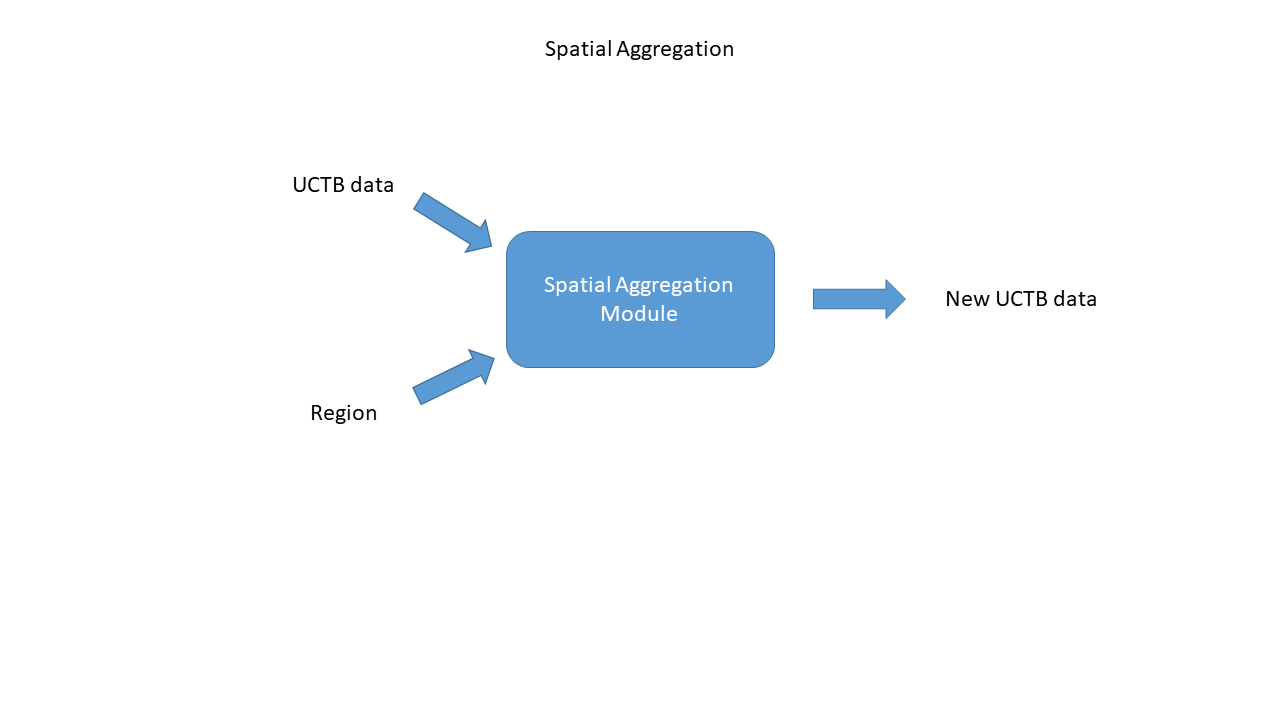
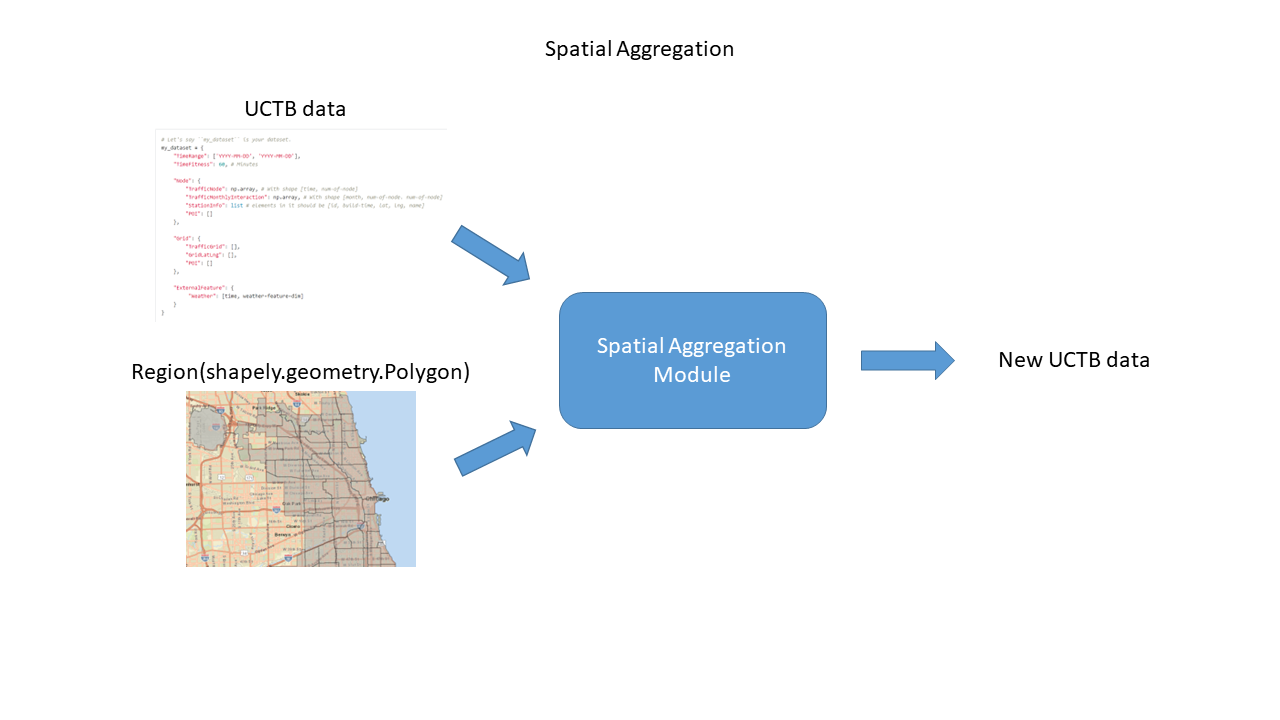
fixed README.md

diff --git a/README.md b/README.md
@@ -2,9 +2,22 @@
 A region generation framework for spatio-temporal prediction task
 ## Current Development Plan
 We are now developing for spatial aggregation module.
-[UCTB data description](https://uctb.github.io/UCTB/md_file/urban_dataset.html)
+Following two pictures are the discription of the input output and the function of the module.
 ![](figure/RegionGeneration.png)
 ![](figure/example.png)
-[UCTB data](https://github.com/uctb/Urban-Dataset/blob/main/Public_Datasets/Bike/60_minutes/Bike_Chicago.zip)
 
-[Region](https://data.cityofchicago.org/Facilities-Geographic-Boundaries/Boundaries-Community-Areas-current-/cauq-8yn6)
+The function is divided into two parts:
+- bind stations' time series onto given regions
+- aggregation
+
+The UCTB data format, example UCTB data, and example regions are listed below.
+
+- [UCTB data description](https://uctb.github.io/UCTB/md_file/urban_dataset.html)
+
+- [`shapely.geometry.Polygon`](https://shapely.readthedocs.io/en/stable/reference/shapely.Polygon.html#shapely.Polygon)
+
+- [UCTB data](https://github.com/uctb/Urban-Dataset/blob/main/Public_Datasets/Bike/60_minutes/Bike_Chicago.zip)
+
+- [Region](https://data.cityofchicago.org/Facilities-Geographic-Boundaries/Boundaries-Community-Areas-current-/cauq-8yn6)
+
+Please use information above to construct a test case to examine the module after finishing development.
